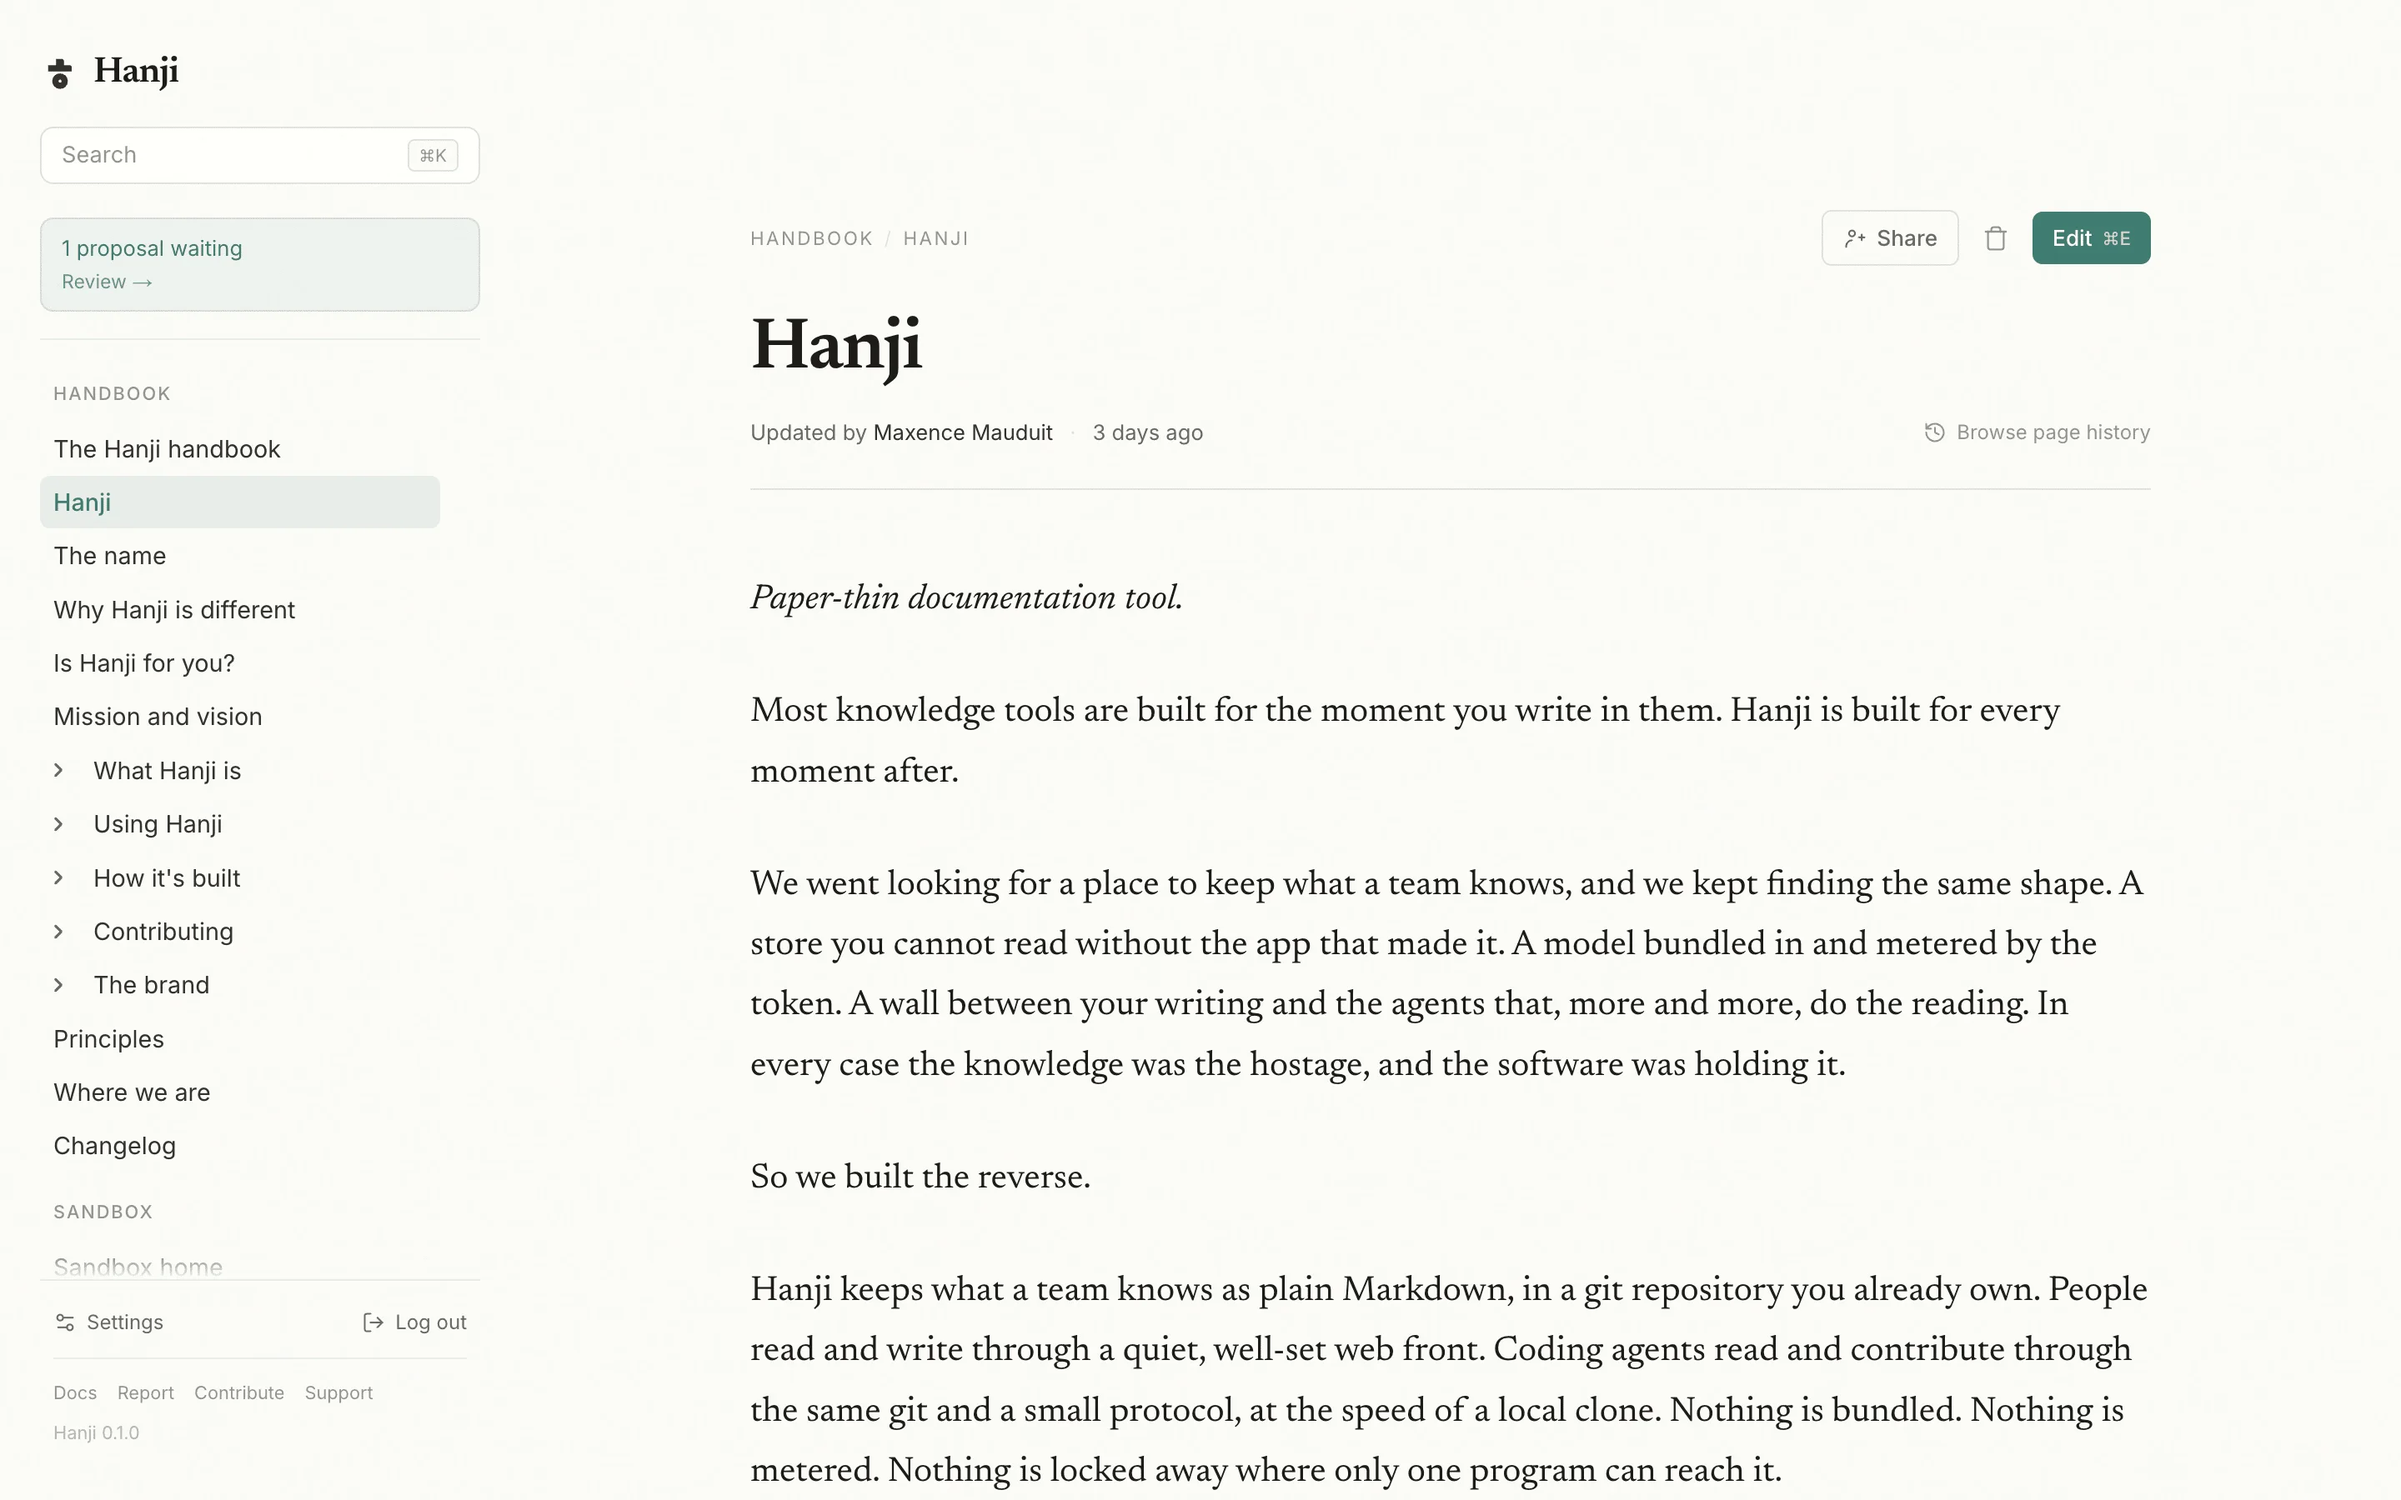
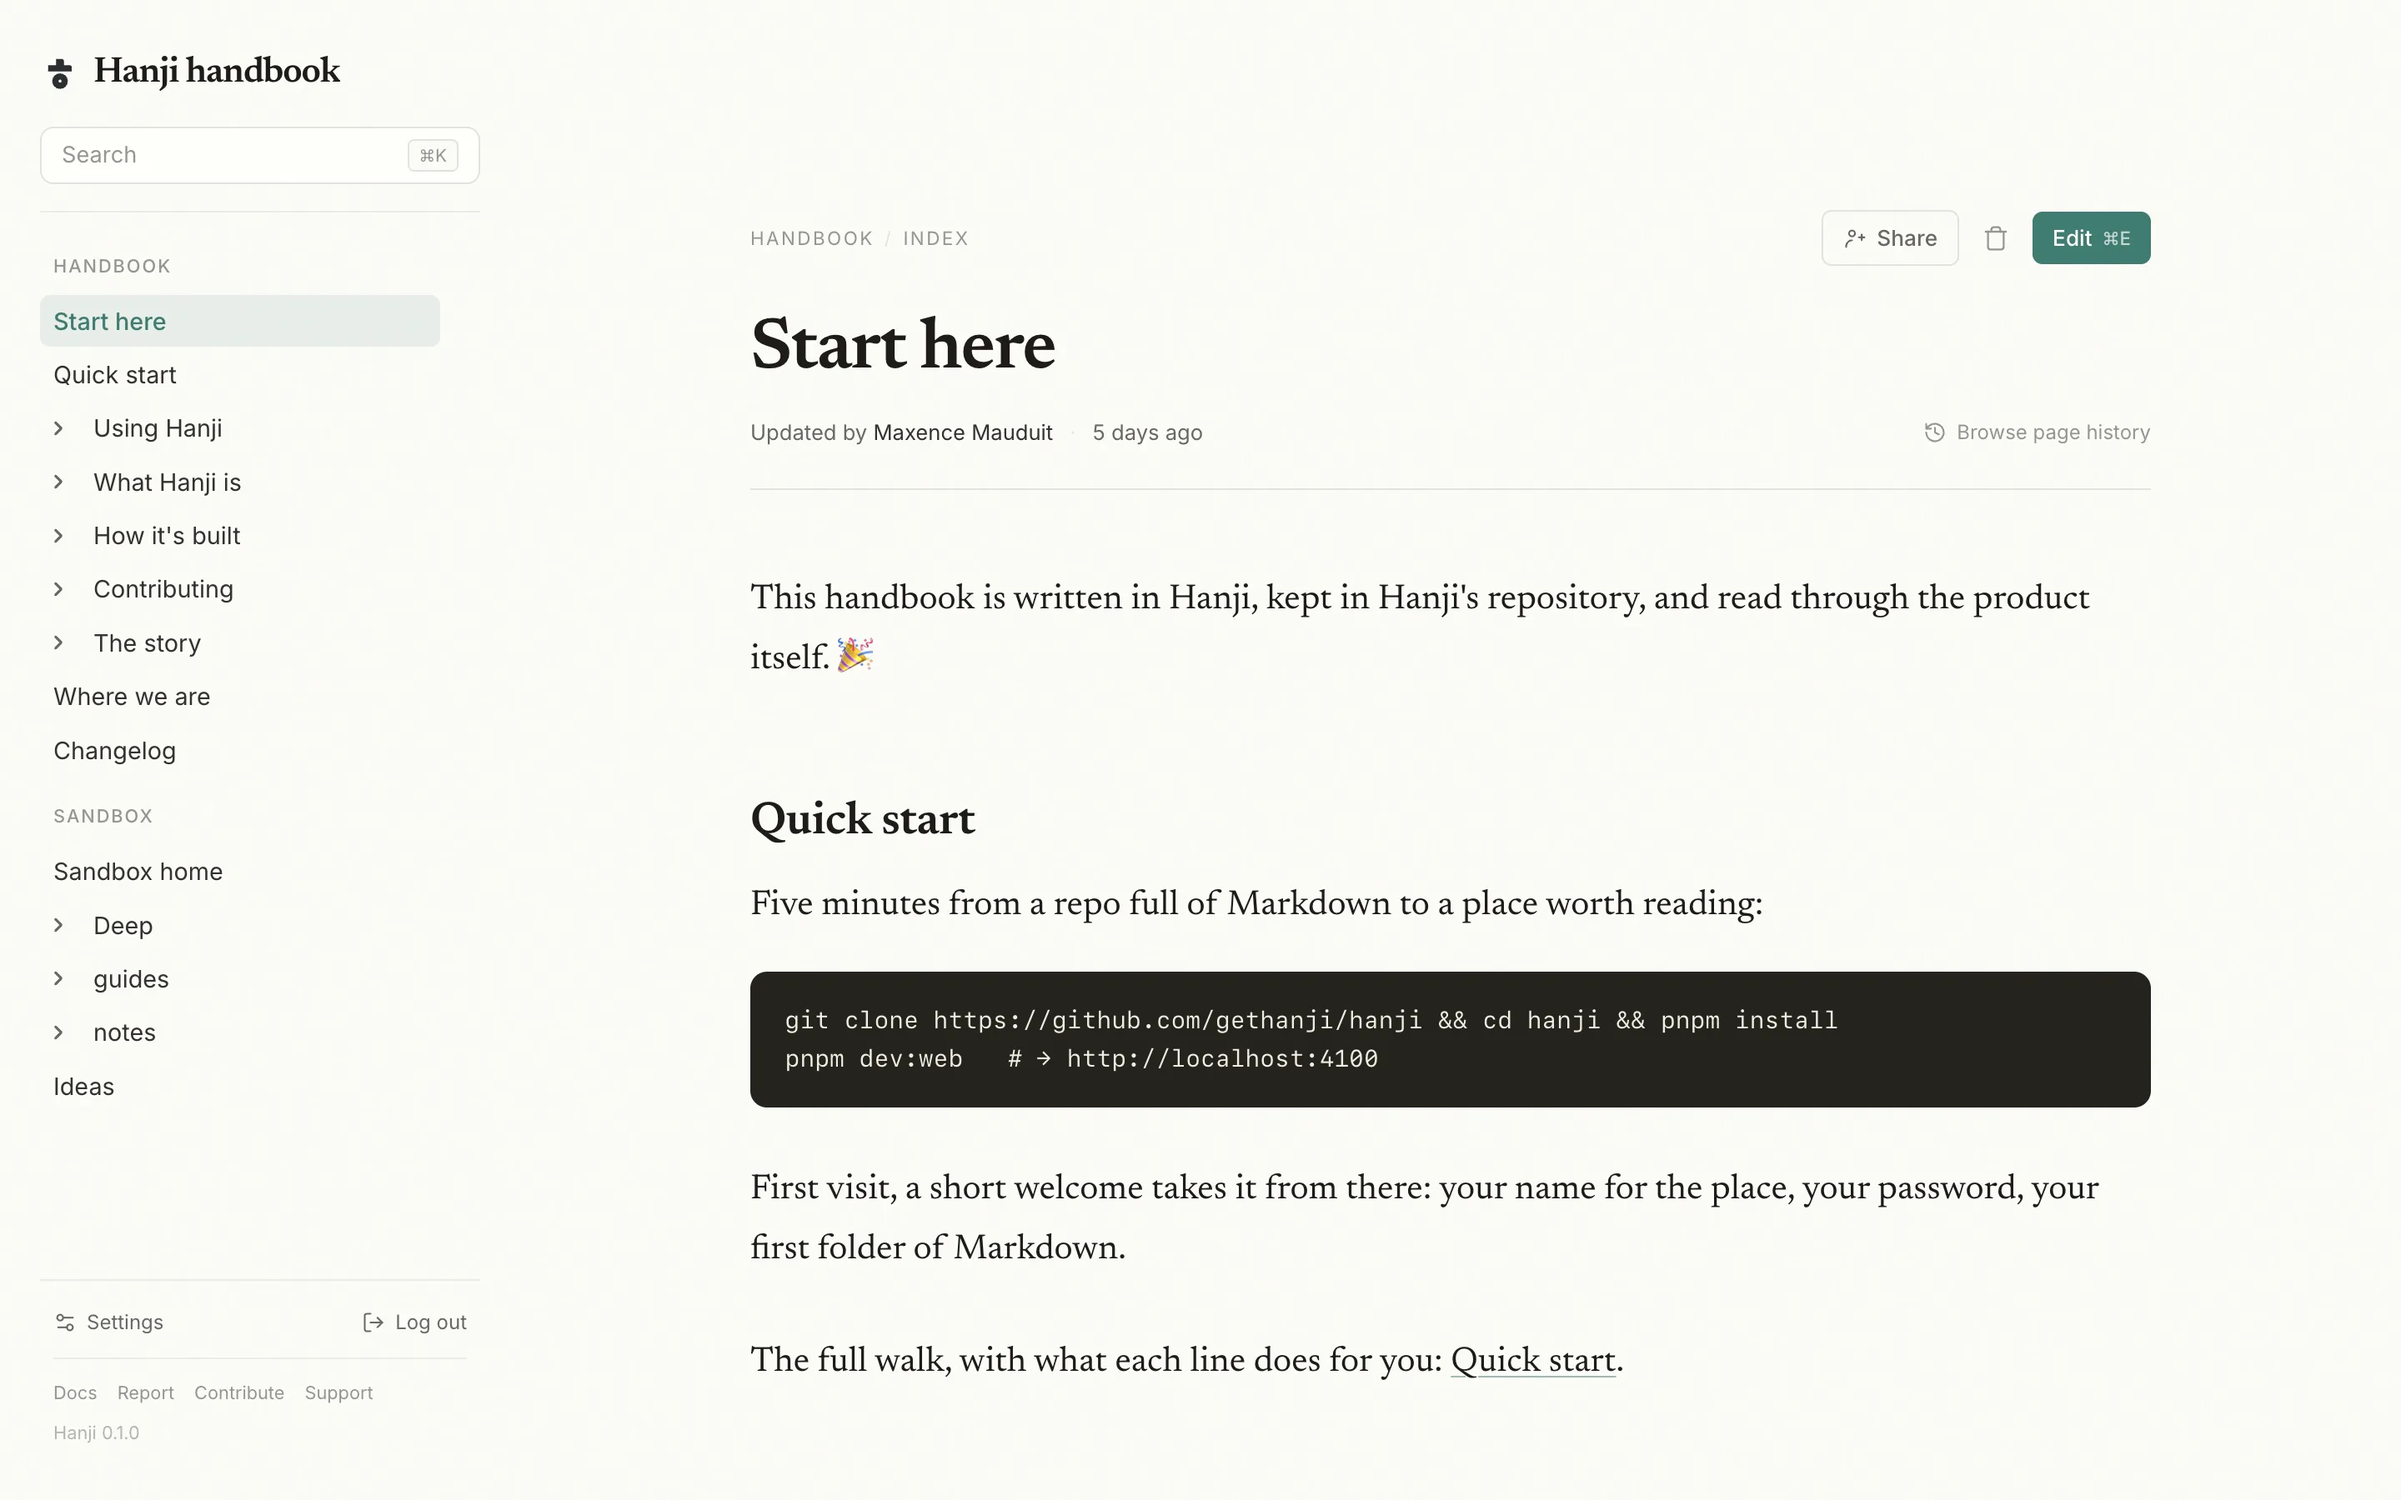
shots: dark twins + reshoot, following the effective scheme
The two static shots (reading view, share popover) now ship light and dark
variants; CSS shows the twin matching the effective scheme - the OS answer
unless the toggle forces one, the same cascade light-dark() rides. The
share popover was reshot: the old crop pulled page prose in and cut it
mid-word at the edge; the new frame is the card itself on quiet paper.
The reading view was reshot on the current handbook cover (the old shot
showed a page the IA rework deleted). The merge animation stays light-only
for now.

diff --git a/ko/index.html b/ko/index.html
@@ -121,6 +121,16 @@ html.js .theme{display:grid}
 :root:not([data-theme]) .theme .i-auto{display:block}
 :root[data-theme=light] .theme .i-light{display:block}
 :root[data-theme=dark] .theme .i-dark{display:block}
+/* Shots follow the effective scheme, same cascade as light-dark(): the OS
+   answer unless the toggle forces one. The dark twin hides by default. */
+.shot .shot-dark{display:none}
+@media (prefers-color-scheme:dark){
+:root:not([data-theme=light]) .shot .shot-dark{display:block}
+:root:not([data-theme=light]) .shot .shot-light{display:none}
+}
+:root[data-theme=dark] .shot .shot-dark{display:block}
+:root[data-theme=dark] .shot .shot-light{display:none}
+
 
 /* ---------- hero ---------- */
 .hero{position:relative;padding:6.5rem 0 5.5rem;z-index:1}
@@ -345,7 +355,7 @@ em,.hero h1 em{font-style:normal} /* Korean has no true italics; emphasis via co
       <h2 class="rise">종이처럼 읽힙니다.<br>프로처럼 커밋합니다.</h2>
       <p class="rise">따뜻한 종이, 긴 호흡의 읽기를 위한 세리프, 그리고 제자리에서 이뤄지는 편집. 업데이트를 누르면 뒤에서 정확히 하나의 깔끔한 커밋이 남습니다. 한 단어 수정은 한 줄 diff가 되어, 히스토리에 영원히 읽힙니다.</p>
     </div>
-    <div class="shot rise"><img src="/assets/reading-view.webp" alt="한지 읽기 화면: 마운트 사이드바, 따뜻한 종이 위에 세리프로 조판된 페이지" loading="lazy"></div>
+    <div class="shot rise"><img class="shot-light" src="/assets/reading-view.webp" alt="한지 읽기 화면: 마운트 사이드바, 따뜻한 종이 위에 세리프로 조판된 페이지" loading="lazy"><img class="shot-dark" src="/assets/reading-view-dark.webp" alt="한지 읽기 화면: 마운트 사이드바, 따뜻한 종이 위에 세리프로 조판된 페이지" loading="lazy"></div>
   </section>
 
   <section class="pane rev" id="p2">
@@ -364,7 +374,7 @@ em,.hero h1 em{font-style:normal} /* Korean has no true italics; emphasis via co
       <p class="rise">열림은 아래로 흐르고, 사람은 그 흐름을 뚫는 예외입니다. 두 사람이 공유하는 노트는 다른 모두에게 보이지 않습니다. 트리도, 검색도, 링크도 전부. 잠긴 페이지는 존재하지 않는 페이지와 똑같아 보입니다.</p>
       <p class="rise">하나의 읽기 경로가 이를 강제합니다. 사람에게도, 에이전트에게도 똑같이.</p>
     </div>
-    <div class="shot rise"><img src="/assets/share-popover.webp" alt="공유 팝오버: 마운트에 설정된 전체 접근 권한, 그 아래 한 사람의 부여 내역" loading="lazy"></div>
+    <div class="shot rise"><img class="shot-light" src="/assets/share-popover.webp" alt="공유 팝오버: 마운트에 설정된 전체 접근 권한, 그 아래 한 사람의 부여 내역" loading="lazy"><img class="shot-dark" src="/assets/share-popover-dark.webp" alt="공유 팝오버: 마운트에 설정된 전체 접근 권한, 그 아래 한 사람의 부여 내역" loading="lazy"></div>
   </section>
 </div>
 

diff --git a/index.html b/index.html
@@ -119,6 +119,16 @@ html.js .theme{display:grid}
 :root:not([data-theme]) .theme .i-auto{display:block}
 :root[data-theme=light] .theme .i-light{display:block}
 :root[data-theme=dark] .theme .i-dark{display:block}
+/* Shots follow the effective scheme, same cascade as light-dark(): the OS
+   answer unless the toggle forces one. The dark twin hides by default. */
+.shot .shot-dark{display:none}
+@media (prefers-color-scheme:dark){
+:root:not([data-theme=light]) .shot .shot-dark{display:block}
+:root:not([data-theme=light]) .shot .shot-light{display:none}
+}
+:root[data-theme=dark] .shot .shot-dark{display:block}
+:root[data-theme=dark] .shot .shot-light{display:none}
+
 
 /* ---------- hero ---------- */
 .hero{position:relative;padding:6.5rem 0 5.5rem;z-index:1}
@@ -337,7 +347,7 @@ footer a:hover{color:var(--ink)}
       <h2 class="rise">Reads like paper.<br>Commits like a professional.</h2>
       <p class="rise">Warm paper, a serif set for long reading, and edits made in place. Press Update and exactly one clean commit happens behind you - a one-word fix is a one-line diff, forever legible in history.</p>
     </div>
-    <div class="shot rise"><img src="assets/reading-view.webp" alt="The Hanji reading view: a sidebar of mounts, a page set in serif on warm paper" loading="lazy"></div>
+    <div class="shot rise"><img class="shot-light" src="assets/reading-view.webp" alt="The Hanji reading view: a sidebar of mounts, a page set in serif on warm paper" loading="lazy"><img class="shot-dark" src="assets/reading-view-dark.webp" alt="The Hanji reading view: a sidebar of mounts, a page set in serif on warm paper" loading="lazy"></div>
   </section>
 
   <section class="pane rev" id="p2">
@@ -356,7 +366,7 @@ footer a:hover{color:var(--ink)}
       <p class="rise">Open flows down; people are the exceptions that punch through. A note two people share is invisible to everyone else - tree, search, links, all of it - and a locked page looks identical to one that doesn't exist.</p>
       <p class="rise">One read path enforces it, for humans and agents alike.</p>
     </div>
-    <div class="shot rise"><img src="assets/share-popover.webp" alt="The Share popover: general access set on a mount, one person's grant listed beneath" loading="lazy"></div>
+    <div class="shot rise"><img class="shot-light" src="assets/share-popover.webp" alt="The Share popover: general access set on a mount, one person's grant listed beneath" loading="lazy"><img class="shot-dark" src="assets/share-popover-dark.webp" alt="The Share popover: general access set on a mount, one person's grant listed beneath" loading="lazy"></div>
   </section>
 </div>
 
